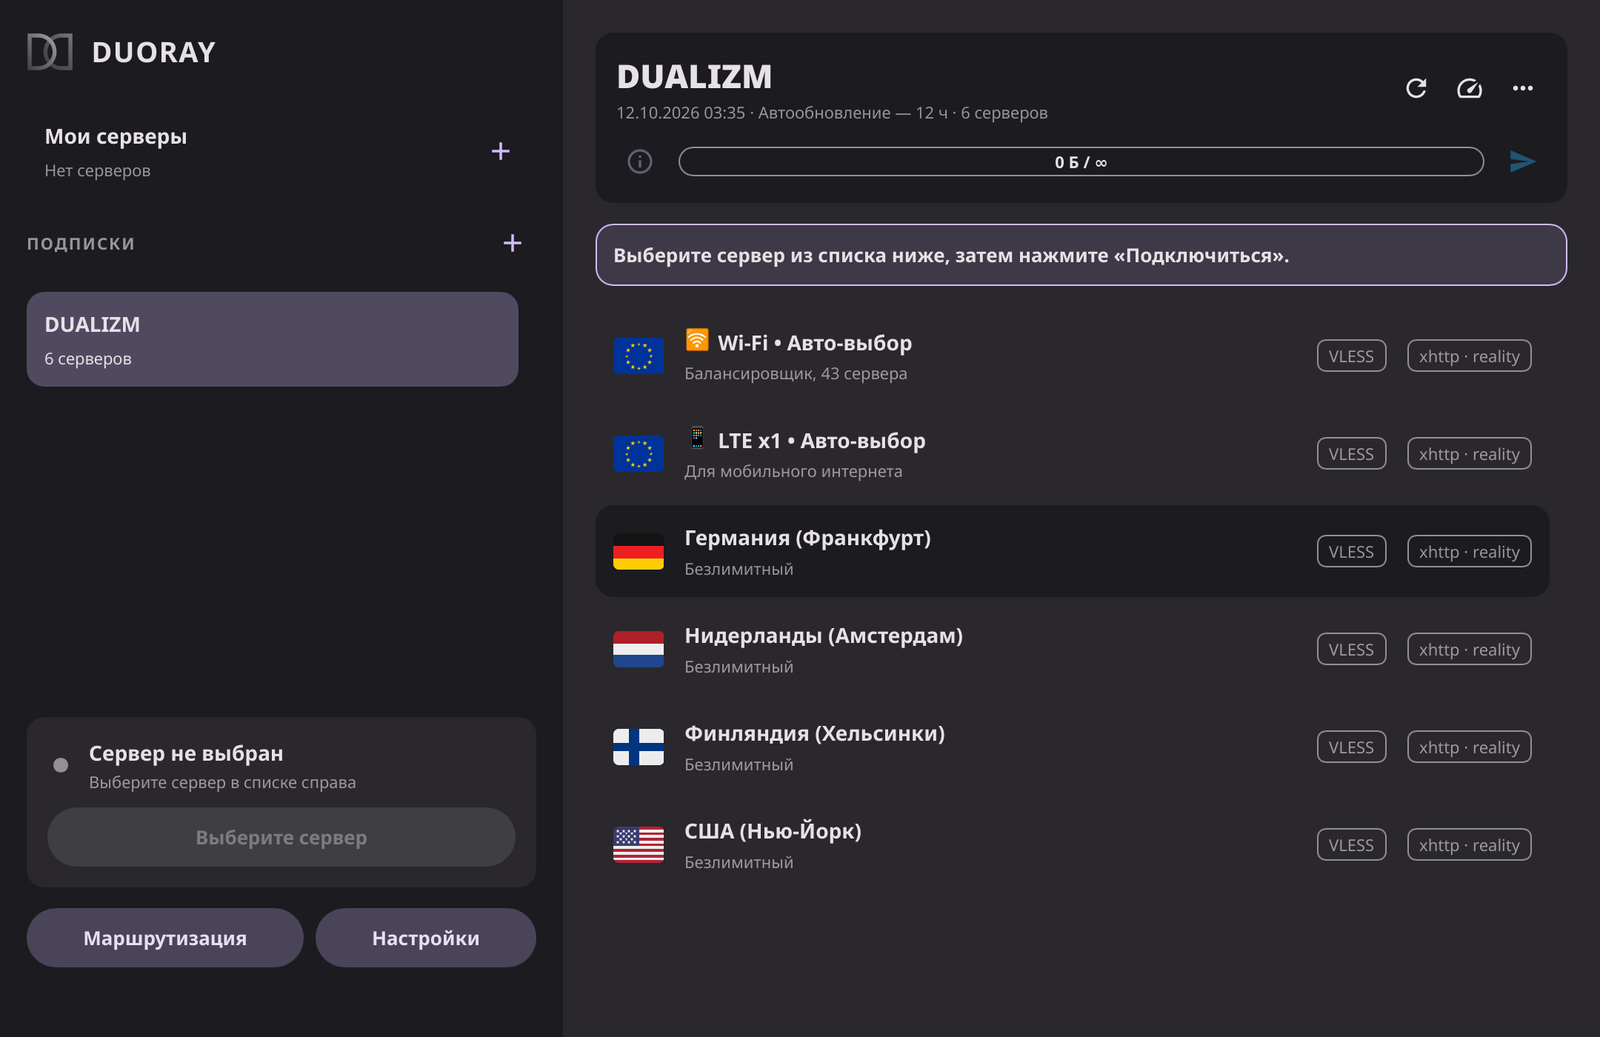
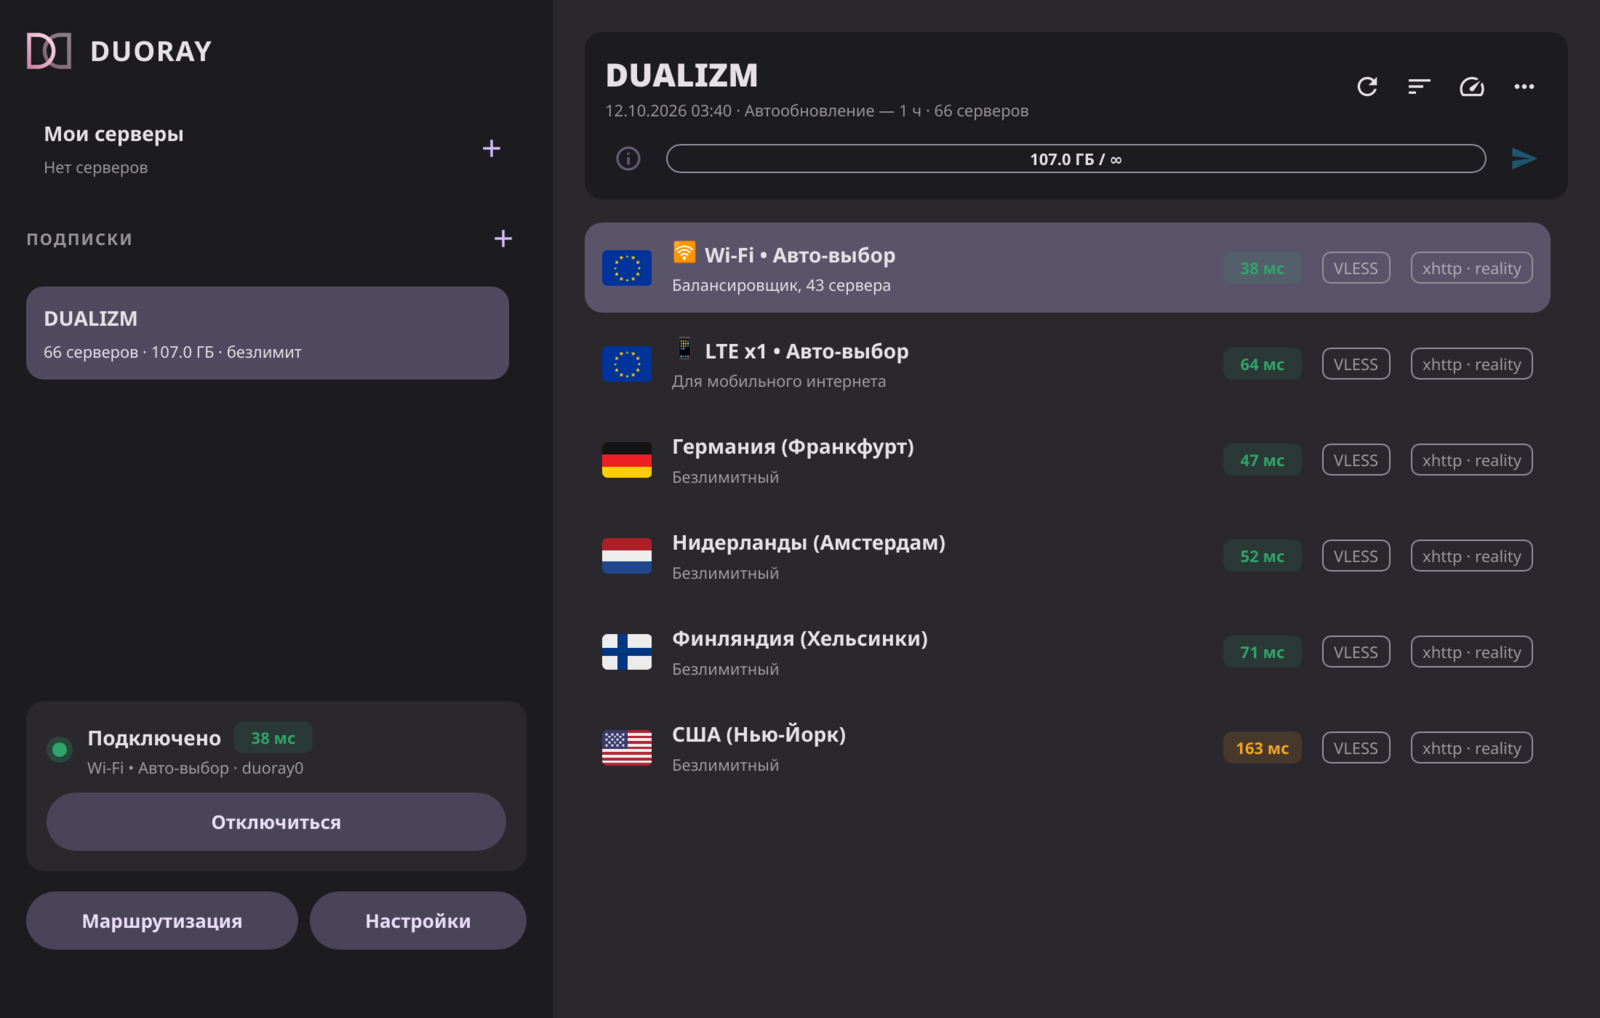
docs: shorter intro, screenshot of a connected session
Claude-Session: https://claude.ai/code/session_01VRePpT5qNUukKjjMhRj1yE

diff --git a/README.md b/README.md
@@ -9,10 +9,8 @@
   <img alt="Platforms" src="https://img.shields.io/badge/platforms-Windows%20%7C%20macOS%20%7C%20Linux-fdebf3?style=flat-square&labelColor=141118">
 </p>
 
-**DUORAY** — десктопный клиент [Xray-core](https://github.com/XTLS/Xray-core) для
-Windows, macOS и Linux. Подписки панели работают целиком, как задумал их автор, а
-весь трафик и DNS устройства идут через сервер благодаря собственному TUN без утечек.
-Приложение написано на Rust, интерфейс — на [Slint](https://slint.dev).
+**DUORAY** — клиент [Xray-core](https://github.com/XTLS/Xray-core) для Windows,
+macOS и Linux, сделанный с упором на защиту от утечек DNS.
 
 <p align="center">
   <img src="docs/images/screenshot.png" alt="Окно DUORAY" width="820">
